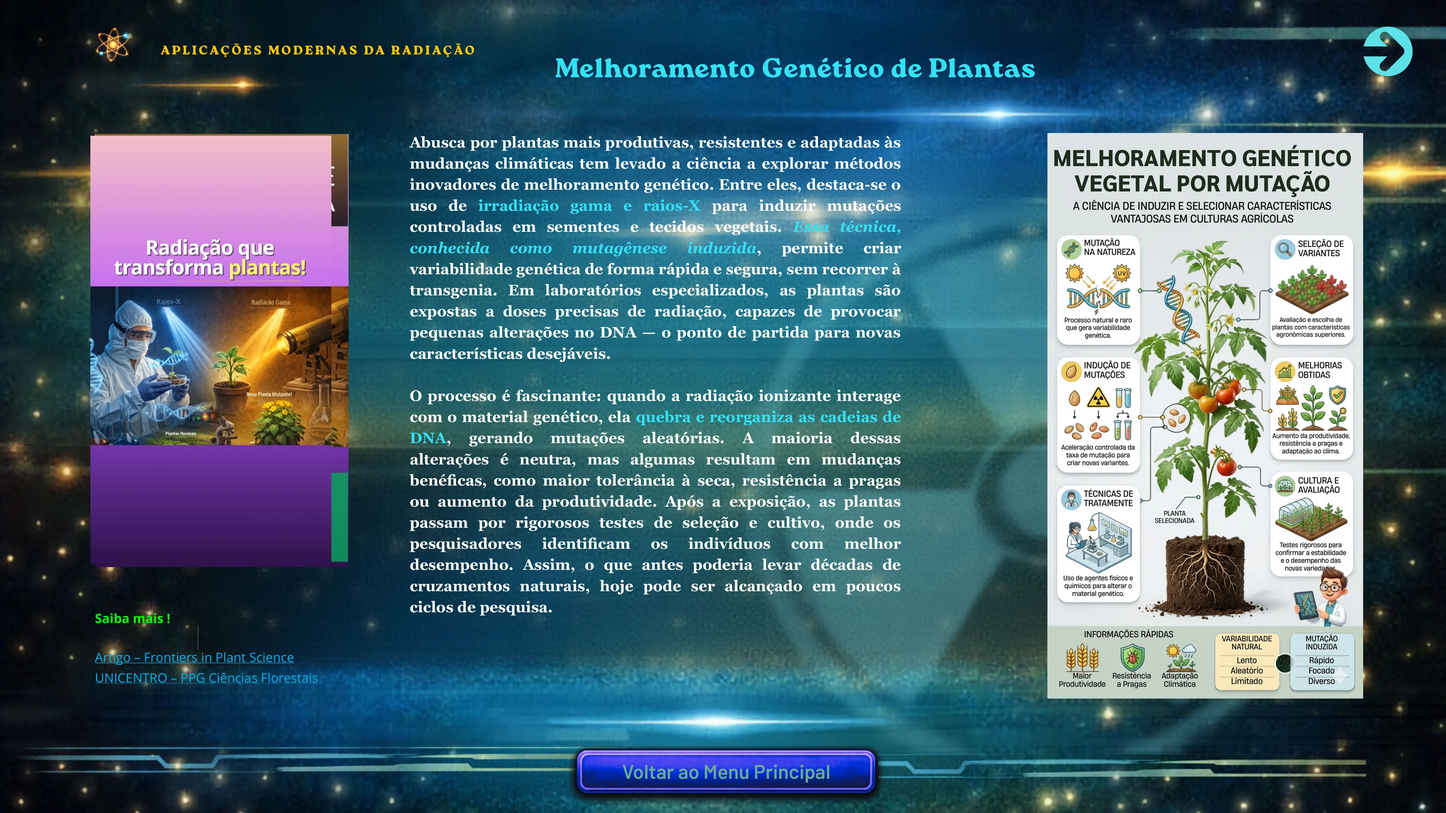
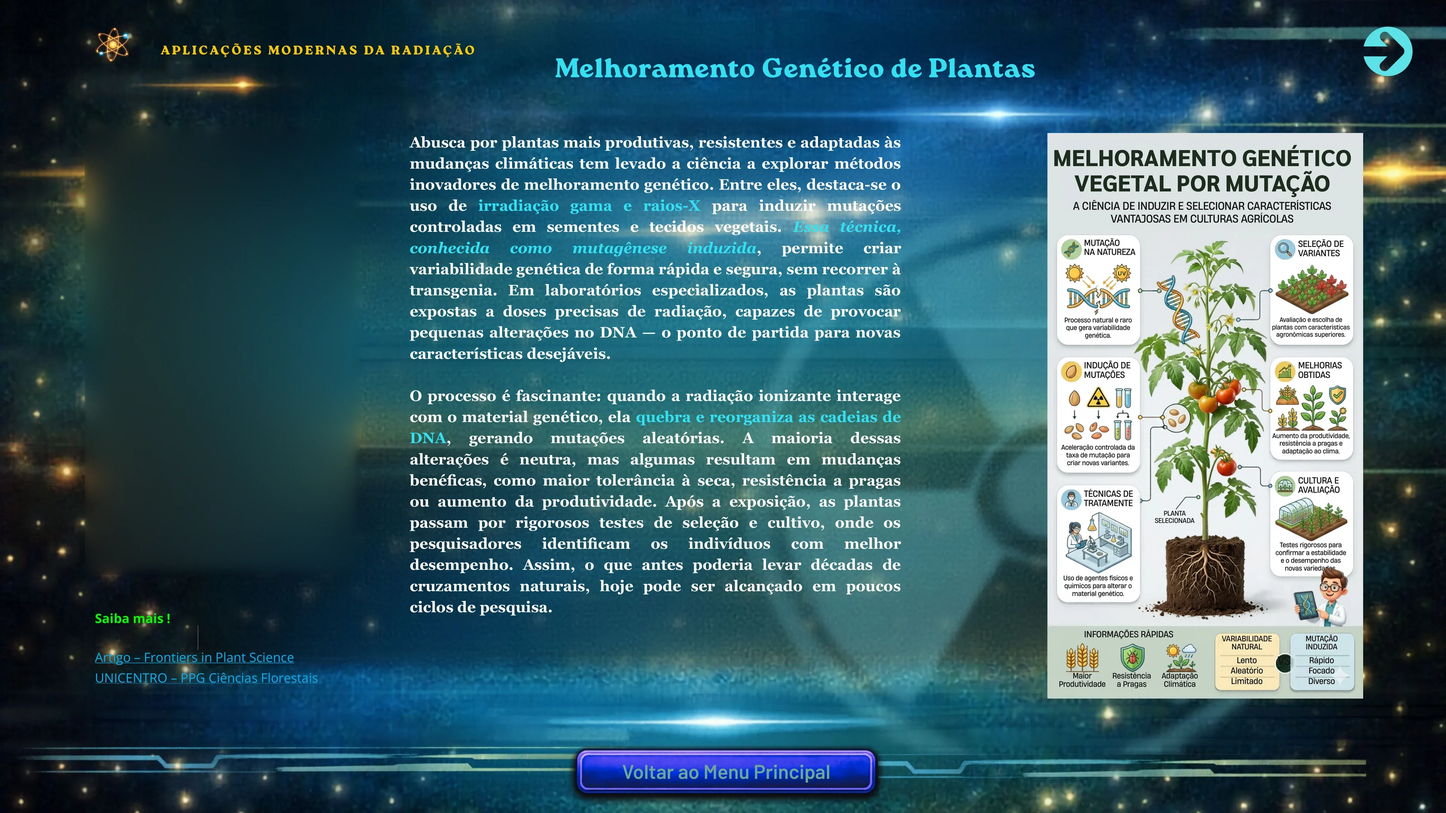
Remove a rebarba da capa do vídeo na ficha de Melhoramento Genético

Changed region(s): [[0.0625, 0.1551, 0.25, 0.7134]]

diff --git a/layout.js b/layout.js
@@ -62,7 +62,7 @@ historyPageIds.forEach((id, i) => {
 export const slideDetails = {
   fluoroscopio: { bg: 'deck/det-fluoroscopio.webp', video: 'deck/fluoroscopio.mp4', box: { x: 112, y: 182, w: 321, h: 568 } },
   pintoras: { bg: 'deck/det-radium.webp', video: 'deck/radium.mp4', box: { x: 125, y: 180, w: 351, h: 626 } },
-  melhoramento: { bg: 'deck/det-melhoramento.webp', video: 'deck/melhoramento.mp4', box: { x: 119, y: 180, w: 321, h: 568 } },
+  melhoramento: { bg: 'deck/det-melhoramento.webp', video: 'deck/melhoramento.mp4', box: { x: 118, y: 176, w: 348, h: 580 } },
   energia: { bg: 'deck/det-energia.webp', video: 'deck/energia.mp4', box: { x: 125, y: 177, w: 344, h: 611 } },
 }
 
